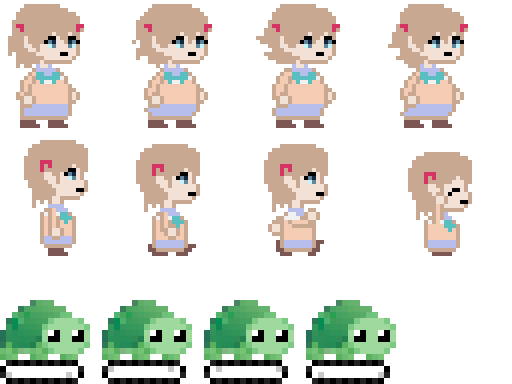
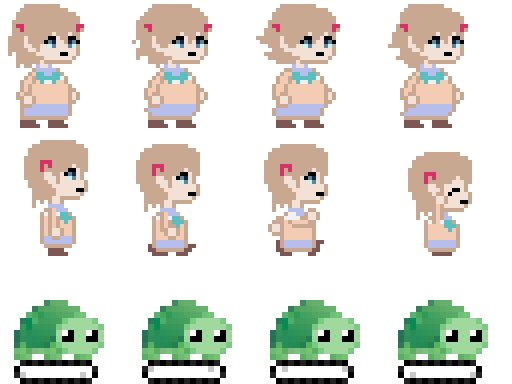
testing again

Changed region(s): [[0.0, 0.7812, 0.9688, 1.0]]

diff --git a/js/Data/player.js b/js/Data/player.js
@@ -56,7 +56,7 @@ var playerData ={
 			cycle:false,
 			frames:
 			[
-				{width:128, height:128, startX:245, startY:140}
+				{width:128, height:128, startX:245, startY:128}
 			]
 		},
 		//The crouch animation 
@@ -72,20 +72,26 @@ var playerData ={
 		//The attack animation 
 		attack:
 		{
-			fps:3,
+			fps:15,
 			cycle:false,
-			//width:300,
 			frames:
 			[
-				{width:128, height:128, startX:1024, startY:0},
-				{width:128, height:128, startX:1024, startY:0},
-				{width:128, height:128, startX:1024, startY:0},
-				{width:128, height:128, startX:1152, startY:0},
-				{width:128, height:128, startX:1152, startY:0},
-				{width:128, height:128, startX:1152, startY:0},
-				{width:128, height:128, startX:1152, startY:0}
+				{width:128, height:128, startX:245, startY:128}
+			]
+		},
+			magic:
+		{
+			fps:15,
+			cycle:false,
+			frames:
+			[
+				{width:128, height:128, startX:0, startY:256,},
+				{width:128, height:128, startX:128, startY:256},
+				{width:128, height:128, startX:256, startY:256,},
+				{width:128, height:128, startX:384, startY:256}
 				
 			]
+				
 		}
 	}
 		

diff --git a/js/GameStates/level1.js b/js/GameStates/level1.js
@@ -141,7 +141,7 @@ gameStates[`level1`] = function()
 		wiz.canJump = false;
 		wiz.vy = wiz.jumpHeight;
 		wiz.changeState(`jump`)
-		//sounds.play(`splode`,1)
+		sounds.play(`splode`,1)
 	}
 	shotTimer--;
 	if(shotTimer <=0)
@@ -159,7 +159,7 @@ gameStates[`level1`] = function()
 		{
 			wiz.changeState(`attack`)
 			shotTimer = shotDelay
-			//console.log(`Boom`)
+			console.log(`Boom`)
 
 			bullets[currentBullet].vx = 5*wiz.dir;
 			bullets[currentBullet].world = level;
@@ -167,7 +167,9 @@ gameStates[`level1`] = function()
 			bullets[currentBullet].y = wiz.y + 20;
 			bullets[currentBullet].dir = wiz.dir;
 			
-			//sounds.play(`splode`,1)
+			bullets[currentBullet].changeState(`magic`);
+			
+			sounds.play(`splode`,1)
 
 			currentBullet++;
 			if(currentBullet>=bullets.length)

diff --git a/js/GameStates/menu.js b/js/GameStates/menu.js
@@ -3,9 +3,11 @@ This file contains all of the code for the Main Menu
 ----------------------------------*/
 
 var startButton = new GameObject();
-//startButton.img.src="images/mrt.jpg"
-startButton.width=200;
-startButton.hitBoxWidth=800
+startButton.img.src="images/play.png"
+startButton.width=100;
+startButton.hitBoxWidth=100
+startButton.height=60;
+startButton.hitBoxHight=60
 console.log(startButton.collisionPoints.right)
 
 
@@ -35,7 +37,7 @@ gameStates[`menu`] =function(){
 	}
 	
 	menuBackground.drawStaticImage();
-	startButton.render()
+	startButton.drawStaticImage();
 }
 	
 	

diff --git a/js/Classes/GameObject.js b/js/Classes/GameObject.js
@@ -390,4 +390,6 @@ function GameObject(obj)
 		context.fillRect(this.x-size/2, this.y-size/2, size, size);
 		context.restore();
 	}
+
+	
 }

diff --git a/js/Utility/controls.js b/js/Utility/controls.js
@@ -32,6 +32,7 @@ function press(e)
 	}
 }
 
+
 function release(e)
 {
 	//---This logs key codes into the browser's console.
